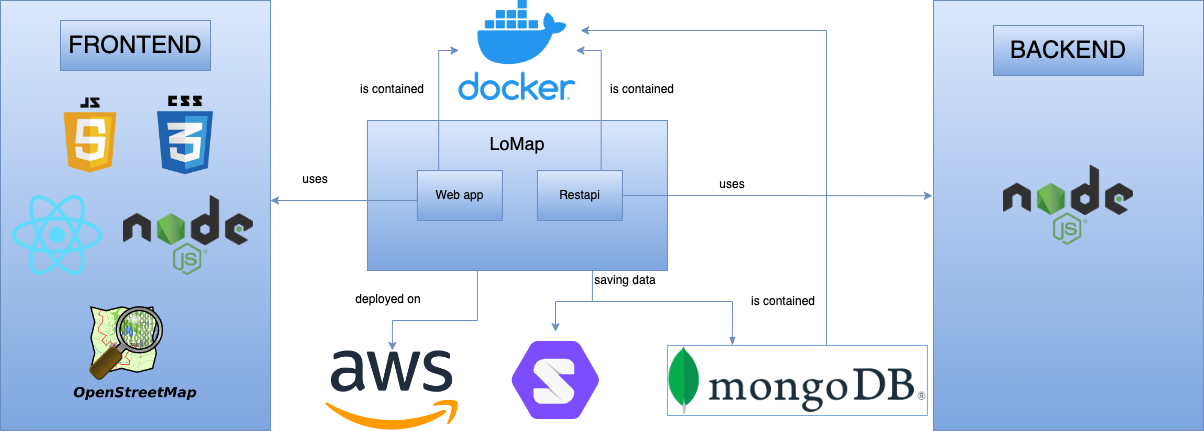
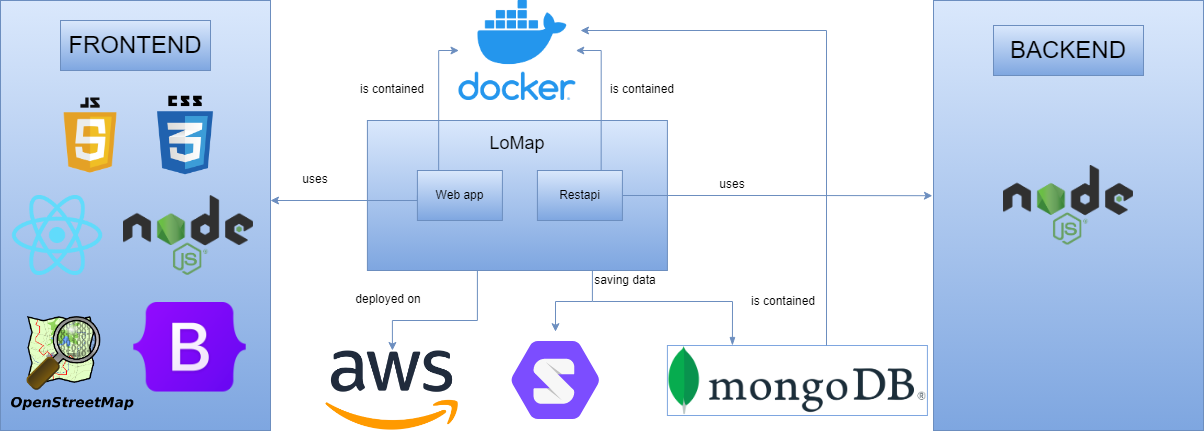
Updates

diff --git a/index.html b/index.html
@@ -818,6 +818,11 @@ These stakeholders determine the extent and the level of detail of your work and
 <td class="tableblock halign-left valign-top"><p class="tableblock">Learn new frontend skills and build a nice app</p></td>
 </tr>
 <tr>
+<td class="tableblock halign-left valign-top"><p class="tableblock">Chen Xin Pan Wang</p></td>
+<td class="tableblock halign-left valign-top"><p class="tableblock"><a href="mailto:uo276967@uniovi.es">uo276967@uniovi.es</a></p></td>
+<td class="tableblock halign-left valign-top"><p class="tableblock">Learn some new technologies and work in a good team</p></td>
+</tr>
+<tr>
 <td class="tableblock halign-left valign-top"><p class="tableblock">Cristian Augusto</p></td>
 <td class="tableblock halign-left valign-top"><p class="tableblock"><a href="mailto:augustocristian@uniovi.es">augustocristian@uniovi.es</a></p></td>
 <td class="tableblock halign-left valign-top"><p class="tableblock">A full functional and decentralized app</p></td>
@@ -1110,6 +1115,10 @@ together with a mapping table showing the relationships between channels and inp
 <td class="tableblock halign-left valign-top"><p class="tableblock">MongoDB</p></td>
 <td class="tableblock halign-left valign-top"><p class="tableblock">Used for store some aditional data.</p></td>
 </tr>
+<tr>
+<td class="tableblock halign-left valign-top"><p class="tableblock">Bootstrap</p></td>
+<td class="tableblock halign-left valign-top"><p class="tableblock">Simplifies the use of CSS and HTML, using the HTLM5 standards.</p></td>
+</tr>
 </tbody>
 </table>
 <div class="paragraph">
@@ -1191,6 +1200,9 @@ Refer to details in the following sections.</p>
 <li>
 <p><strong>Github</strong>: is a version management system where all the code will be stored, structured and modified.</p>
 </li>
+<li>
+<p><strong>Bootstrap</strong>: is a framework that provides a collection of tools to simplify the use of html and css in the application.</p>
+</li>
 </ul>
 </div>
 <div class="sect2">
@@ -1205,6 +1217,9 @@ Refer to details in the following sections.</p>
 </li>
 <li>
 <p>Github was chosen for version control and organization and communication between the team.</p>
+</li>
+<li>
+<p>Bootstrap was chosen becouse the facilities it provides and to have a nice, clean and responsive view to the web app.</p>
 </li>
 </ul>
 </div>
@@ -1450,7 +1465,7 @@ You will mainly capture scenarios in your documentation to communicate your arch
 <h3 id="_register_user">6.1. Register User</h3>
 <div class="imageblock">
 <div class="content">
-<img src="./images/register%20diagram.png" alt="register diagram" width="357" height="298">
+<img src="./images/register%20diagram.png" alt="register diagram" width="337" height="305">
 </div>
 </div>
 </div>
@@ -1458,7 +1473,7 @@ You will mainly capture scenarios in your documentation to communicate your arch
 <h3 id="_user_login_pod">6.2. User Login Pod</h3>
 <div class="imageblock">
 <div class="content">
-<img src="./images/login%20diagram.png" alt="login diagram" width="529" height="370">
+<img src="./images/login%20diagram.png" alt="login diagram" width="491" height="378">
 </div>
 </div>
 </div>
@@ -1466,7 +1481,7 @@ You will mainly capture scenarios in your documentation to communicate your arch
 <h3 id="_visualize_map">6.3. Visualize map</h3>
 <div class="imageblock">
 <div class="content">
-<img src="./images/Map%20diagram.png" alt="Map diagram" width="661" height="415">
+<img src="./images/Map%20diagram.png" alt="Map diagram" width="628" height="426">
 </div>
 </div>
 </div>
@@ -1474,7 +1489,7 @@ You will mainly capture scenarios in your documentation to communicate your arch
 <h3 id="_friends_list">6.4. Friends list</h3>
 <div class="imageblock">
 <div class="content">
-<img src="./images/Friends%20list%20diagram.png" alt="Friends list diagram" width="599" height="357">
+<img src="./images/Friends%20list%20diagram.png" alt="Friends list diagram" width="555" height="365">
 </div>
 </div>
 </div>
@@ -1482,7 +1497,7 @@ You will mainly capture scenarios in your documentation to communicate your arch
 <h3 id="_add_places_to_map">6.5. Add places to map</h3>
 <div class="imageblock">
 <div class="content">
-<img src="./images/Add%20places%20diagram.png" alt="Add places diagram" width="686" height="357">
+<img src="./images/Add%20places%20diagram.png" alt="Add places diagram" width="650" height="365">
 </div>
 </div>
 </div>
@@ -1490,7 +1505,7 @@ You will mainly capture scenarios in your documentation to communicate your arch
 <h3 id="_reviews">6.6. Reviews</h3>
 <div class="imageblock">
 <div class="content">
-<img src="./images/Reviews%20diagram.png" alt="Reviews diagram" width="799" height="328">
+<img src="./images/Reviews%20diagram.png" alt="Reviews diagram" width="742" height="335">
 </div>
 </div>
 </div>
@@ -1498,7 +1513,7 @@ You will mainly capture scenarios in your documentation to communicate your arch
 <h3 id="_filter_map">6.7. Filter map</h3>
 <div class="imageblock">
 <div class="content">
-<img src="./images/filter%20map%20diagram.png" alt="filter map diagram" width="917" height="415">
+<img src="./images/filter%20map%20diagram.png" alt="filter map diagram" width="851" height="426">
 </div>
 </div>
 <div style="page-break-after: always;"></div>
@@ -1880,7 +1895,7 @@ here in this central section or whether you better document it locally
 <td class="tableblock halign-left valign-top"><p class="tableblock">The general cloud computing issues as backup protection.</p></td>
 </tr>
 <tr>
-<td class="tableblock halign-left valign-top"><p class="tableblock">CSS</p></td>
+<td class="tableblock halign-left valign-top"><p class="tableblock">CSS+Bootstrap</p></td>
 <td class="tableblock halign-left valign-top"><p class="tableblock">We use it to add a nice look to the application.</p></td>
 <td class="tableblock halign-left valign-top"><p class="tableblock">It&#8217;s a well known stylesheet languaje for the team.</p></td>
 <td class="tableblock halign-left valign-top"><p class="tableblock">Different browsers work different, we have to take care of it.</p></td>
@@ -2113,13 +2128,6 @@ more precisely down to a level of scenarios that can be discussed and evaluated.
 <div class="paragraph">
 <p>This is a list of identified technical debts, ordered by priority (1 is the highest priority).</p>
 </div>
-<div class="olist arabic">
-<ol class="arabic">
-<li>
-<p>The frontend application unsolved package vulnerabilities, forcing us to use the '--force' when we need to install.</p>
-</li>
-</ol>
-</div>
 <div style="page-break-after: always;"></div>
 </div>
 </div>
@@ -2211,6 +2219,10 @@ more precisely down to a level of scenarios that can be discussed and evaluated.
 <td class="tableblock halign-left valign-top"><p class="tableblock">SOLID</p></td>
 <td class="tableblock halign-left valign-top"><p class="tableblock">SOLID is an acronym for the first five object-oriented design principleS. These principles establish practices that lend to developing software with considerations for maintaining and extending as the project grows.</p></td>
 </tr>
+<tr>
+<td class="tableblock halign-left valign-top"><p class="tableblock">Bootstrap</p></td>
+<td class="tableblock halign-left valign-top"><p class="tableblock">A multiplatform library, open source toolbox to design web applications.</p></td>
+</tr>
 </tbody>
 </table>
 <div style="page-break-after: always;"></div>
@@ -2238,7 +2250,7 @@ Created by Dr. Peter Hruschka &amp; Dr. Gernot Starke.</p>
 </div>
 <div id="footer">
 <div id="footer-text">
-Last updated 2023-03-01 20:25:51 +0100
+Last updated 2023-04-12 21:04:39 +0200
 </div>
 </div>
 </body>
